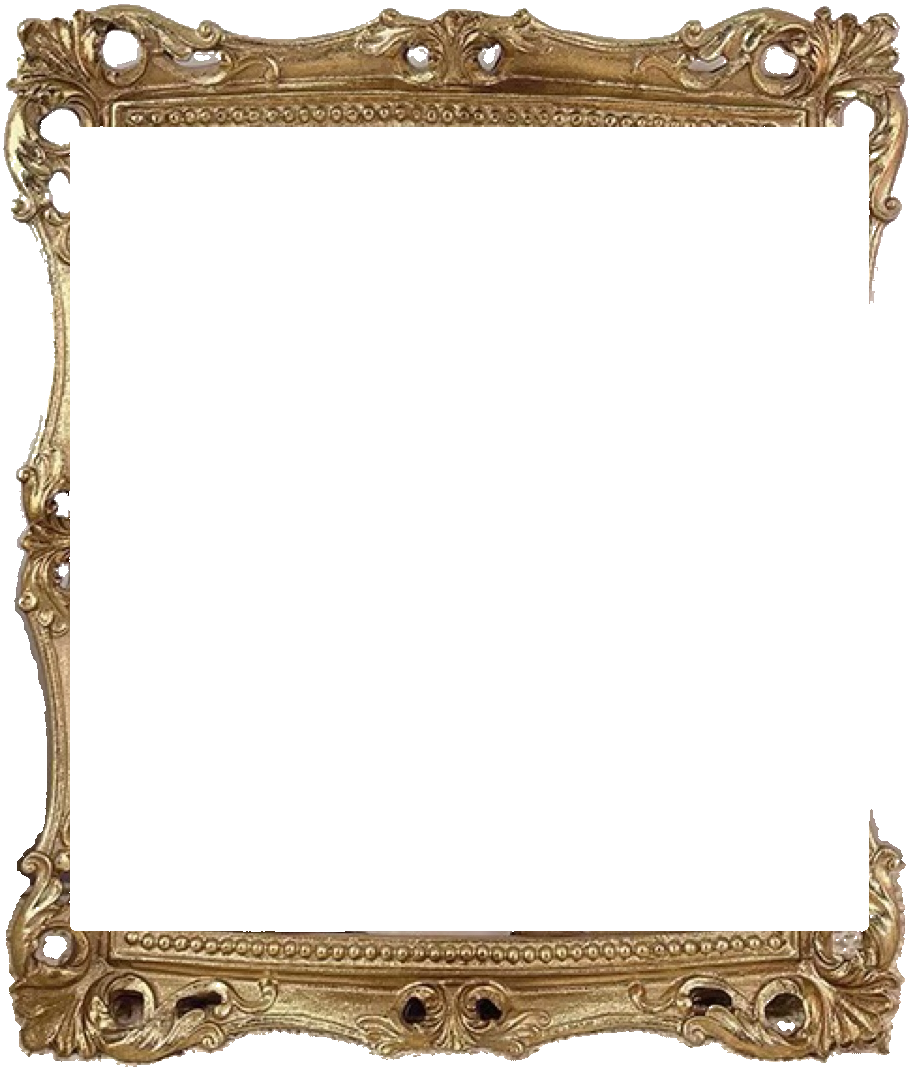
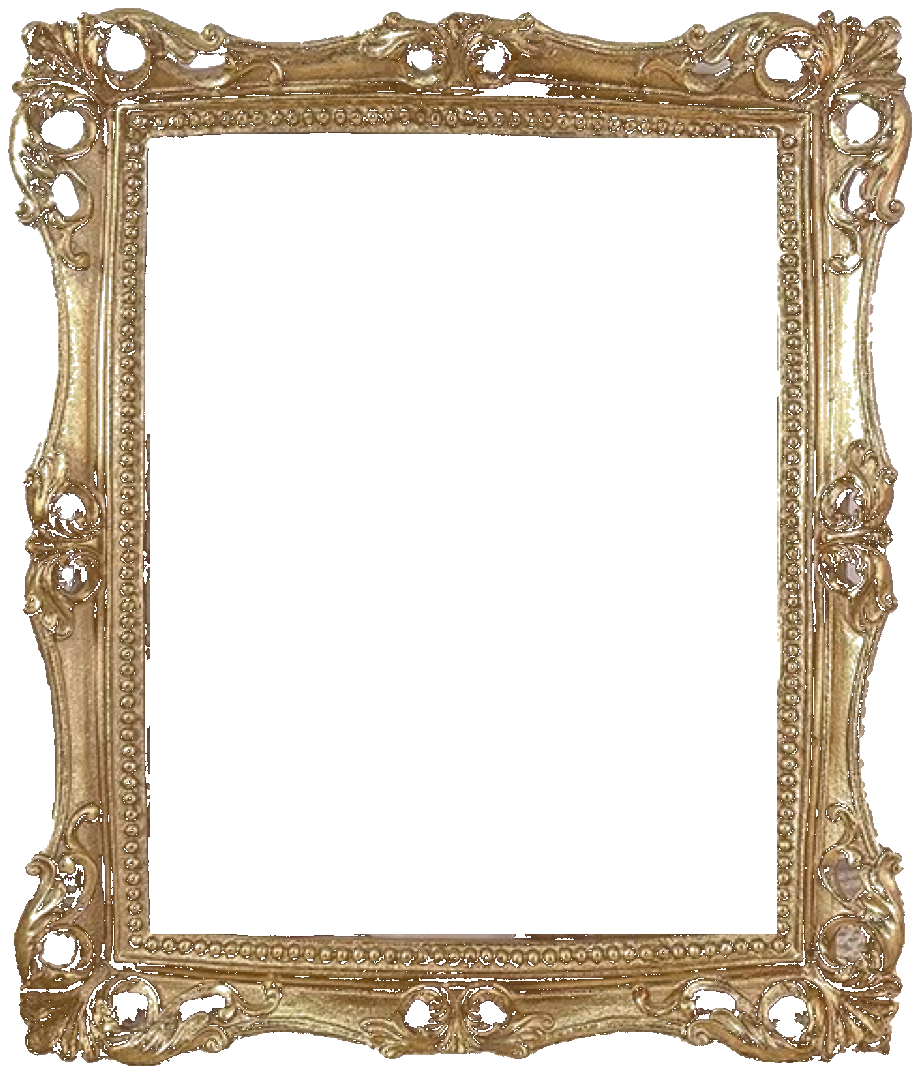
Deploy: art clipped inside openings; 10in frame recut
Paintings sit only in frame openings (circle/ellipse/rect). Fresh 10in
cut with uniform moulding and transparent piercings.

Changed region(s): [[0.0, 0.0, 1.0, 1.0]]

diff --git a/index.html b/index.html
@@ -1,6 +1,6 @@
 <!DOCTYPE html>
 <html><head><meta charset="utf-8"><meta name="viewport" content="width=device-width,initial-scale=1"><title data-i18n-title="k22a8cf57" data-suffix="">MinqianArt · Hand-painted acrylic portraits</title>
-<link rel="stylesheet" href="style.css"><link rel="stylesheet" href="v2.css"><link rel="stylesheet" href="v3.css"><link rel="stylesheet" href="mobile.css"><link rel="stylesheet" href="v2_mobile.css"><link rel="stylesheet" href="v3_mobile.css"><link rel="stylesheet" href="v4.css"><link rel="stylesheet" href="v4_mobile.css"><link rel="stylesheet" href="v5.css"><link rel="stylesheet" href="v5_mobile.css"><link rel="stylesheet" href="v6.css"><link rel="stylesheet" href="v7.css"><link rel="stylesheet" href="v8.css"><link rel="stylesheet" href="v9.css"><link rel="stylesheet" href="v12.css"><link rel="stylesheet" href="frames_real.css"><link rel="stylesheet" href="site.css"><link rel="stylesheet" href="frames_real.css"><script>try{var t=localStorage.getItem("ma-theme");if(t!=="light")document.documentElement.setAttribute("data-theme","dark");}catch(e){}</script><script src="i18n.js" defer></script><script src="site.js" defer></script><script src="frame_art.js"></script><script src="product_ui.js" defer></script></head><body class="parlour v2 cream v3 v4 v5 v6 v7 v8 v9 v12"><div class="mborder" aria-hidden="true"><img class="pc mb fw l" data-id="ml0" style="top:2.293%;left:-31px;width:106px;transform:rotate(5deg)" src="assets/v5/p_ch055.png" data-anc="11" data-dy="-1"><img class="pc mb fw l" data-id="ml1" style="top:4.008%;left:-54px;width:120px;transform:rotate(12deg)" src="assets/v5/p_ch023.png" data-anc="11" data-dy="103"><img class="pc mb bf l" data-id="ml2" style="top:12.890%;left:-17px;width:59px;transform:rotate(18deg)" src="assets/v5/b_bf12_8.png" data-anc="11" data-dy="639"><img class="pc mb fw l" data-id="ml3" style="top:19.191%;left:-36px;width:120px;transform:rotate(2deg)" src="assets/v5/p_ch015.png" data-anc="13" data-dy="210.2"><img class="pc mb fw l" data-id="ml4" style="top:26.196%;left:-36px;width:123px;transform:rotate(1deg)" src="assets/v7/dh_mh1099_tulip.png" data-anc="20" data-dy="24.7"><img class="pc mb bf l" data-id="ml5" style="top:32.334%;left:-18px;width:62px;transform:rotate(16deg)" src="assets/v5/b_bf03_10.png" data-anc="33" data-dy="83.2"><img class="pc mb fw l" data-id="ml6" style="top:38.238%;left:-32px;width:109px;transform:rotate(-6deg)" src="assets/v5/p_ch032.png" data-anc="43" data-dy="73.6"><img class="pc mb fw l" data-id="ml7" style="top:43.997%;left:-75px;width:119px;transform:rotate(-12deg)" src="assets/v5/p_ch020.png" data-anc="44" data-dy="47.5"><img class="pc mb bf l" data-id="ml8" style="top:50.840%;left:-17px;width:58px;transform:rotate(-6deg)" src="assets/v5/b_bf07_4.png" data-anc="44" data-dy="460.5"><img class="pc mb fw l" data-id="ml9" style="top:56.274%;left:-51px;width:106px;transform:rotate(10deg)" src="assets/v5/p_ch025.png" data-anc="44" data-dy="788.5"><img class="pc mb fw l" data-id="ml10" style="top:61.943%;left:-30px;width:101px;transform:rotate(-11deg)" src="assets/v5/p_ch071.png" data-anc="44" data-dy="1131.5"><img class="pc mb bf l" data-id="ml11" style="top:67.214%;left:-19px;width:64px;transform:rotate(-6deg)" src="assets/v5/b_bf13_7.png" data-anc="44" data-dy="1449.5"><img class="pc mb fw l" data-id="ml12" style="top:73.533%;left:-51px;width:105px;transform:rotate(-9deg)" src="assets/v5/p_ro03.png" data-anc="44" data-dy="1830.5"><img class="pc mb fw l" data-id="ml13" style="top:79.437%;left:-34px;width:115px;transform:rotate(14deg)" src="assets/v7/dh_mh1099_rose2.png" data-anc="44" data-dy="2187.5"><img class="pc mb bf l" data-id="ml14" style="top:85.611%;left:-37px;width:59px;transform:rotate(13deg)" src="assets/v5/b_bf10_21.png" data-anc="96" data-dy="65.9"><img class="pc mb fw l" data-id="ml15" style="top:93.681%;left:-65px;width:101px;transform:rotate(13deg)" src="assets/v5/p_ch061.png" data-anc="99" data-dy="40.9"><img class="pc mb fw l" data-id="ml16" style="top:99.007%;left:-55px;width:123px;transform:rotate(13deg)" src="assets/v5/p_ch004.png" data-anc="100" data-dy="47.4"><img class="pc mb bf r" data-id="mr17" style="top:4.532%;right:-19px;width:66px;transform:rotate(13deg)" src="assets/v5/b_bf10_221.png" data-anc="11" data-dy="135"><img class="pc mb fw r" data-id="mr18" style="top:13.251%;right:-71px;width:115px;transform:rotate(-18deg)" src="assets/v5/p_ro15.png" data-anc="11" data-dy="661"><img class="pc mb fw r" data-id="mr19" style="top:16.736%;right:-35px;width:118px;transform:rotate(-7deg)" src="assets/v5/p_ch039.png" data-anc="13" data-dy="61.2"><img class="pc mb bf r" data-id="mr20" style="top:21.249%;right:-25px;width:56px;transform:rotate(-15deg)" src="assets/v5/b_bf08_0.png" data-anc="13" data-dy="334.2"><img class="pc mb fw r" data-id="mr21" style="top:30.529%;right:-31px;width:106px;transform:rotate(1deg)" src="assets/v5/p_ch008.png" data-anc="32" data-dy="48.2"><img class="pc mb fw r" data-id="mr22" style="top:36.469%;right:-35px;width:117px;transform:rotate(14deg)" src="assets/v7/dh_mh1099_wlily2.png" data-anc="34" data-dy="57.6"><img class="pc mb bf r" data-id="mr23" style="top:42.481%;right:-18px;width:62px;transform:rotate(15deg)" src="assets/v5/b_bf12_82.png" data-anc="43" data-dy="330.6"><img class="pc mb fw r" data-id="mr24" style="top:48.204%;right:-35px;width:119px;transform:rotate(11deg)" src="assets/v5/p_ch046.png" data-anc="44" data-dy="301.5"><img class="pc mb fw r" data-id="mr25" style="top:53.674%;right:-33px;width:111px;transform:rotate(4deg)" src="assets/v5/p_ch042.png" data-anc="44" data-dy="631.5"><img class="pc mb bf r" data-id="mr26" style="top:60.643%;right:-17px;width:58px;transform:rotate(-8deg)" src="assets/v5/b_bf05_33.png" data-anc="44" data-dy="1052.5"><img class="pc mb fw r" data-id="mr27" style="top:65.499%;right:-36px;width:121px;transform:rotate(9deg)" src="assets/v5/p_ch003.png" data-anc="44" data-dy="1345.5"><img class="pc mb fw r" data-id="mr28" style="top:71.457%;right:-32px;width:107px;transform:rotate(1deg)" src="assets/v5/p_ch018.png" data-anc="44" data-dy="1705.5"><img class="pc mb bf r" data-id="mr29" style="top:77.054%;right:-19px;width:65px;transform:rotate(-3deg)" src="assets/v5/b_bf05_0.png" data-anc="44" data-dy="2043.5"><img class="pc mb fw r" data-id="mr30" style="top:84.095%;right:-32px;width:108px;transform:rotate(-16deg)" src="assets/v7/dh_mh1099_wlily.png" data-anc="90" data-dy="124.9"><img class="pc mb fw r" data-id="mr31" style="top:89.655%;right:-35px;width:119px;transform:rotate(-1deg)" src="assets/v5/p_ch069.png" data-anc="98" data-dy="49.9"><img class="pc mb bf r" data-id="mr32" style="top:94.963%;right:-17px;width:57px;transform:rotate(5deg)" src="assets/v5/b_bf00_105.png" data-anc="99" data-dy="117.9"></div><div class="fborder" aria-hidden="true"><img class="v4r fw r" style="top:265px;right:-103px;width:265px;transform:rotate(-9deg) scaleX(-1)" src="assets/v5/p_ro12.png" data-anc="3" data-dy="124.5"><img class="v4r fw r" style="top:760px;right:-165px;width:319px;transform:rotate(16deg) scaleX(-1)" src="assets/v4keep/fl_peony.png" data-anc="3" data-dy="619.5"><img class="pc fw l" data-id="l0" style="top:2.437%;left:-51px;width:222px;transform:rotate(-19deg)" src="assets/v5/p_ro15.png" data-anc="3" data-dy="46.5"><img class="pc fw l" data-id="l1" style="top:8.249%;left:-73px;width:192px;transform:rotate(-19deg)" src="assets/v7/dh_mh49_carnB.png" data-anc="3" data-dy="493.5"><img class="pc bf l" data-id="l2" style="top:13.393%;left:-24px;width:134px;transform:rotate(18deg)" src="assets/v5/b_bf03_10.png" data-anc="3" data-dy="888.5"><img class="pc fw l" data-id="l3" style="top:18.794%;left:-44px;width:201px;transform:rotate(-3deg)" src="assets/v7/dh_mh1099_tulip.png" data-anc="32" data-dy="69"><img class="pc fw l" data-id="l4" style="top:24.529%;left:-78px;width:212px;transform:rotate(20deg)" src="assets/v5/p_ch039.png" data-anc="33" data-dy="417"><img class="pc bf l" data-id="l5" style="top:29.480%;left:-24px;width:133px;transform:rotate(1deg)" src="assets/v5/b_bf09_6.png" data-anc="34" data-dy="37"><img class="pc fw l" data-id="l6" style="top:35.523%;left:-70px;width:244px;transform:rotate(-5deg)" src="assets/v7/dh_mh1099_wlily2.png" data-anc="43" data-dy="362"><img class="pc fw l" data-id="l7" style="top:39.577%;left:-75px;width:249px;transform:rotate(3deg)" src="assets/v5/p_ro09.png" data-anc="44" data-dy="201.3"><img class="pc bf l" data-id="l8" style="top:45.221%;left:-1px;width:124px;transform:rotate(18deg)" src="assets/v5/b_bf10_221.png" data-anc="44" data-dy="635.3"><img class="pc fw l" data-id="l9" style="top:50.468%;left:-61px;width:239px;transform:rotate(-9deg)" src="assets/v7/dh_nga_peony.png" data-anc="55" data-dy="1.5"><img class="pc fw l" data-id="l10" style="top:54.933%;left:-55px;width:192px;transform:rotate(19deg)" src="assets/v5/p_ch023.png" data-anc="57" data-dy="141.5"><img class="pc bf l" data-id="l11" style="top:60.000%;left:-14px;width:144px;transform:rotate(-11deg)" src="assets/v5/b_bf11_11.png" data-anc="67" data-dy="4.5"><img class="pc fw l" data-id="l12" style="top:65.208%;left:-57px;width:240px;transform:rotate(20deg)" src="assets/v7/dh_mh1099_redfl.png" data-anc="70" data-dy="198"><img class="pc fw l" data-id="l13" style="top:71.572%;left:-70px;width:222px;transform:rotate(11deg)" src="assets/v5/p_ro17.png" data-anc="70" data-dy="687"><img class="pc bf l" data-id="l14" style="top:76.395%;left:-2px;width:138px;transform:rotate(-10deg)" src="assets/v5/b_bf05_5.png" data-anc="76" data-dy="218"><img class="pc fw l" data-id="l15" style="top:82.476%;left:-57px;width:192px;transform:rotate(1deg)" src="assets/v7/dh_mh1099_wlily.png" data-anc="76" data-dy="685"><img class="pc fw l" data-id="l16" style="top:87.672%;left:-68px;width:234px;transform:rotate(-7deg)" src="assets/v5/p_ch018.png" data-anc="88" data-dy="85.5"><img class="pc bf l" data-id="l17" style="top:93.060%;left:-9px;width:111px;transform:rotate(-20deg)" src="assets/v5/b_bf07_4.png" data-anc="90" data-dy="2.5"><img class="pc fw r" data-id="r18" style="top:14.766%;right:-57px;width:246px;transform:rotate(6deg)" src="assets/v7/dh_mh1099_rose1.png" data-anc="20" data-dy="94.5"><img class="pc fw r" data-id="r19" style="top:20.103%;right:-88px;width:220px;transform:rotate(15deg)" src="assets/v5/p_ch003.png" data-anc="33" data-dy="77"><img class="pc bf r" data-id="r20" style="top:25.696%;right:-6px;width:126px;transform:rotate(-18deg)" src="assets/v5/b_bf05_33.png" data-anc="33" data-dy="507"><img class="pc fw r" data-id="r21" style="top:31.392%;right:-65px;width:247px;transform:rotate(-8deg)" src="assets/v7/gr_khm3043_lilies.png" data-anc="43" data-dy="44"><img class="pc fw r" data-id="r22" style="top:36.511%;right:-80px;width:213px;transform:rotate(4deg)" src="assets/v5/p_ch046.png" data-anc="43" data-dy="438"><img class="pc bf r" data-id="r23" style="top:41.360%;right:-2px;width:119px;transform:rotate(-19deg)" src="assets/v5/b_bf06_80.png" data-anc="44" data-dy="338.3"><img class="pc fw r" data-id="r24" style="top:46.774%;right:-66px;width:248px;transform:rotate(14deg)" src="assets/v7/dh_mh1099_bud.png" data-anc="44" data-dy="754.3"><img class="pc fw r" data-id="r25" style="top:52.842%;right:-46px;width:240px;transform:rotate(2deg)" src="assets/v5/p_ch004.png" data-anc="56" data-dy="89.5"><img class="pc bf r" data-id="r26" style="top:58.294%;right:-15px;width:144px;transform:rotate(19deg)" src="assets/v5/b_bf00_105.png" data-anc="58" data-dy="13.5"><img class="pc fw r" data-id="r27" style="top:62.848%;right:-65px;width:228px;transform:rotate(17deg)" src="assets/v5/p_ch042.png" data-anc="70" data-dy="17"><img class="pc fw r" data-id="r28" style="top:67.979%;right:-90px;width:210px;transform:rotate(1deg)" src="assets/v5/p_ch061.png" data-anc="70" data-dy="411"><img class="pc bf r" data-id="r29" style="top:73.342%;right:-21px;width:129px;transform:rotate(-9deg)" src="assets/v5/b_bf02_7.png" data-anc="71" data-dy="123"><img class="pc fw r" data-id="r30" style="top:78.384%;right:-67px;width:249px;transform:rotate(3deg)" src="assets/v5/p_ch026.png" data-anc="76" data-dy="370"><img class="pc fw r" data-id="r31" style="top:83.310%;right:-68px;width:229px;transform:rotate(11deg)" src="assets/v5/p_ro03.png" data-anc="77" data-dy="19"><img class="pc bf r" data-id="r32" style="top:89.686%;right:-16px;width:131px;transform:rotate(-5deg)" src="assets/v5/b_bf03_45.png" data-anc="89" data-dy="138.5"></div>
+<link rel="stylesheet" href="style.css"><link rel="stylesheet" href="v2.css"><link rel="stylesheet" href="v3.css"><link rel="stylesheet" href="mobile.css"><link rel="stylesheet" href="v2_mobile.css"><link rel="stylesheet" href="v3_mobile.css"><link rel="stylesheet" href="v4.css"><link rel="stylesheet" href="v4_mobile.css"><link rel="stylesheet" href="v5.css"><link rel="stylesheet" href="v5_mobile.css"><link rel="stylesheet" href="v6.css"><link rel="stylesheet" href="v7.css"><link rel="stylesheet" href="v8.css"><link rel="stylesheet" href="v9.css"><link rel="stylesheet" href="v12.css"><link rel="stylesheet" href="frames_real.css"><link rel="stylesheet" href="site.css"><link rel="stylesheet" href="frames_real.css"><script>try{var t=localStorage.getItem("ma-theme");if(t!=="light")document.documentElement.setAttribute("data-theme","dark");}catch(e){}</script><script src="i18n.js" defer></script><script src="site.js" defer></script><script src="frame_art.js"></script><script src="product_ui.js" defer></script></head><body class="parlour v2 cream v3 v4 v5 v6 v7 v8 v9 v12"><div class="mborder" aria-hidden="true"><img class="pc mb fw l" data-id="ml0" style="top:2.293%;left:-31px;width:106px;transform:rotate(5deg)" src="assets/v5/p_ch055.png" data-anc="11" data-dy="-1"><img class="pc mb fw l" data-id="ml1" style="top:4.008%;left:-54px;width:120px;transform:rotate(12deg)" src="assets/v5/p_ch023.png" data-anc="11" data-dy="102"><img class="pc mb bf l" data-id="ml2" style="top:12.890%;left:-17px;width:59px;transform:rotate(18deg)" src="assets/v5/b_bf12_8.png" data-anc="11" data-dy="636"><img class="pc mb fw l" data-id="ml3" style="top:19.191%;left:-36px;width:120px;transform:rotate(2deg)" src="assets/v5/p_ch015.png" data-anc="13" data-dy="205.2"><img class="pc mb fw l" data-id="ml4" style="top:26.196%;left:-36px;width:123px;transform:rotate(1deg)" src="assets/v7/dh_mh1099_tulip.png" data-anc="20" data-dy="18.7"><img class="pc mb bf l" data-id="ml5" style="top:32.334%;left:-18px;width:62px;transform:rotate(16deg)" src="assets/v5/b_bf03_10.png" data-anc="33" data-dy="75.2"><img class="pc mb fw l" data-id="ml6" style="top:38.238%;left:-32px;width:109px;transform:rotate(-6deg)" src="assets/v5/p_ch032.png" data-anc="43" data-dy="64.6"><img class="pc mb fw l" data-id="ml7" style="top:43.997%;left:-75px;width:119px;transform:rotate(-12deg)" src="assets/v5/p_ch020.png" data-anc="44" data-dy="61.5"><img class="pc mb bf l" data-id="ml8" style="top:50.840%;left:-17px;width:58px;transform:rotate(-6deg)" src="assets/v5/b_bf07_4.png" data-anc="44" data-dy="472.5"><img class="pc mb fw l" data-id="ml9" style="top:56.274%;left:-51px;width:106px;transform:rotate(10deg)" src="assets/v5/p_ch025.png" data-anc="44" data-dy="799.5"><img class="pc mb fw l" data-id="ml10" style="top:61.943%;left:-30px;width:101px;transform:rotate(-11deg)" src="assets/v5/p_ch071.png" data-anc="44" data-dy="1140.5"><img class="pc mb bf l" data-id="ml11" style="top:67.214%;left:-19px;width:64px;transform:rotate(-6deg)" src="assets/v5/b_bf13_7.png" data-anc="44" data-dy="1457.5"><img class="pc mb fw l" data-id="ml12" style="top:73.533%;left:-51px;width:105px;transform:rotate(-9deg)" src="assets/v5/p_ro03.png" data-anc="44" data-dy="1837.5"><img class="pc mb fw l" data-id="ml13" style="top:79.437%;left:-34px;width:115px;transform:rotate(14deg)" src="assets/v7/dh_mh1099_rose2.png" data-anc="44" data-dy="2192.5"><img class="pc mb bf l" data-id="ml14" style="top:85.611%;left:-37px;width:59px;transform:rotate(13deg)" src="assets/v5/b_bf10_21.png" data-anc="96" data-dy="69.9"><img class="pc mb fw l" data-id="ml15" style="top:93.681%;left:-65px;width:101px;transform:rotate(13deg)" src="assets/v5/p_ch061.png" data-anc="99" data-dy="41.9"><img class="pc mb fw l" data-id="ml16" style="top:99.007%;left:-55px;width:123px;transform:rotate(13deg)" src="assets/v5/p_ch004.png" data-anc="100" data-dy="47.4"><img class="pc mb bf r" data-id="mr17" style="top:4.532%;right:-19px;width:66px;transform:rotate(13deg)" src="assets/v5/b_bf10_221.png" data-anc="11" data-dy="134"><img class="pc mb fw r" data-id="mr18" style="top:13.251%;right:-71px;width:115px;transform:rotate(-18deg)" src="assets/v5/p_ro15.png" data-anc="11" data-dy="658"><img class="pc mb fw r" data-id="mr19" style="top:16.736%;right:-35px;width:118px;transform:rotate(-7deg)" src="assets/v5/p_ch039.png" data-anc="13" data-dy="57.2"><img class="pc mb bf r" data-id="mr20" style="top:21.249%;right:-25px;width:56px;transform:rotate(-15deg)" src="assets/v5/b_bf08_0.png" data-anc="13" data-dy="329.2"><img class="pc mb fw r" data-id="mr21" style="top:30.529%;right:-31px;width:106px;transform:rotate(1deg)" src="assets/v5/p_ch008.png" data-anc="32" data-dy="41.2"><img class="pc mb fw r" data-id="mr22" style="top:36.469%;right:-35px;width:117px;transform:rotate(14deg)" src="assets/v7/dh_mh1099_wlily2.png" data-anc="34" data-dy="48.6"><img class="pc mb bf r" data-id="mr23" style="top:42.481%;right:-18px;width:62px;transform:rotate(15deg)" src="assets/v5/b_bf12_82.png" data-anc="43" data-dy="319.6"><img class="pc mb fw r" data-id="mr24" style="top:48.204%;right:-35px;width:119px;transform:rotate(11deg)" src="assets/v5/p_ch046.png" data-anc="44" data-dy="314.5"><img class="pc mb fw r" data-id="mr25" style="top:53.674%;right:-33px;width:111px;transform:rotate(4deg)" src="assets/v5/p_ch042.png" data-anc="44" data-dy="642.5"><img class="pc mb bf r" data-id="mr26" style="top:60.643%;right:-17px;width:58px;transform:rotate(-8deg)" src="assets/v5/b_bf05_33.png" data-anc="44" data-dy="1062.5"><img class="pc mb fw r" data-id="mr27" style="top:65.499%;right:-36px;width:121px;transform:rotate(9deg)" src="assets/v5/p_ch003.png" data-anc="44" data-dy="1354.5"><img class="pc mb fw r" data-id="mr28" style="top:71.457%;right:-32px;width:107px;transform:rotate(1deg)" src="assets/v5/p_ch018.png" data-anc="44" data-dy="1712.5"><img class="pc mb bf r" data-id="mr29" style="top:77.054%;right:-19px;width:65px;transform:rotate(-3deg)" src="assets/v5/b_bf05_0.png" data-anc="44" data-dy="2048.5"><img class="pc mb fw r" data-id="mr30" style="top:84.095%;right:-32px;width:108px;transform:rotate(-16deg)" src="assets/v7/dh_mh1099_wlily.png" data-anc="90" data-dy="128.9"><img class="pc mb fw r" data-id="mr31" style="top:89.655%;right:-35px;width:119px;transform:rotate(-1deg)" src="assets/v5/p_ch069.png" data-anc="98" data-dy="51.9"><img class="pc mb bf r" data-id="mr32" style="top:94.963%;right:-17px;width:57px;transform:rotate(5deg)" src="assets/v5/b_bf00_105.png" data-anc="99" data-dy="118.9"></div><div class="fborder" aria-hidden="true"><img class="v4r fw r" style="top:265px;right:-103px;width:265px;transform:rotate(-9deg) scaleX(-1)" src="assets/v5/p_ro12.png" data-anc="3" data-dy="124.5"><img class="v4r fw r" style="top:760px;right:-165px;width:319px;transform:rotate(16deg) scaleX(-1)" src="assets/v4keep/fl_peony.png" data-anc="3" data-dy="619.5"><img class="pc fw l" data-id="l0" style="top:2.437%;left:-51px;width:222px;transform:rotate(-19deg)" src="assets/v5/p_ro15.png" data-anc="3" data-dy="45.5"><img class="pc fw l" data-id="l1" style="top:8.249%;left:-73px;width:192px;transform:rotate(-19deg)" src="assets/v7/dh_mh49_carnB.png" data-anc="3" data-dy="490.5"><img class="pc bf l" data-id="l2" style="top:13.393%;left:-24px;width:134px;transform:rotate(18deg)" src="assets/v5/b_bf03_10.png" data-anc="3" data-dy="883.5"><img class="pc fw l" data-id="l3" style="top:18.794%;left:-44px;width:201px;transform:rotate(-3deg)" src="assets/v7/dh_mh1099_tulip.png" data-anc="32" data-dy="62"><img class="pc fw l" data-id="l4" style="top:24.529%;left:-78px;width:212px;transform:rotate(20deg)" src="assets/v5/p_ch039.png" data-anc="33" data-dy="408"><img class="pc bf l" data-id="l5" style="top:29.480%;left:-24px;width:133px;transform:rotate(1deg)" src="assets/v5/b_bf09_6.png" data-anc="34" data-dy="27"><img class="pc fw l" data-id="l6" style="top:35.523%;left:-70px;width:244px;transform:rotate(-5deg)" src="assets/v7/dh_mh1099_wlily2.png" data-anc="43" data-dy="349"><img class="pc fw l" data-id="l7" style="top:39.577%;left:-75px;width:249px;transform:rotate(3deg)" src="assets/v5/p_ro09.png" data-anc="44" data-dy="223.3"><img class="pc bf l" data-id="l8" style="top:45.221%;left:-1px;width:124px;transform:rotate(18deg)" src="assets/v5/b_bf10_221.png" data-anc="44" data-dy="655.3"><img class="pc fw l" data-id="l9" style="top:50.468%;left:-61px;width:239px;transform:rotate(-9deg)" src="assets/v7/dh_nga_peony.png" data-anc="55" data-dy="19.5"><img class="pc fw l" data-id="l10" style="top:54.933%;left:-55px;width:192px;transform:rotate(19deg)" src="assets/v5/p_ch023.png" data-anc="57" data-dy="158.5"><img class="pc bf l" data-id="l11" style="top:60.000%;left:-14px;width:144px;transform:rotate(-11deg)" src="assets/v5/b_bf11_11.png" data-anc="67" data-dy="18.5"><img class="pc fw l" data-id="l12" style="top:65.208%;left:-57px;width:240px;transform:rotate(20deg)" src="assets/v7/dh_mh1099_redfl.png" data-anc="70" data-dy="210"><img class="pc fw l" data-id="l13" style="top:71.572%;left:-70px;width:222px;transform:rotate(11deg)" src="assets/v5/p_ro17.png" data-anc="70" data-dy="697"><img class="pc bf l" data-id="l14" style="top:76.395%;left:-2px;width:138px;transform:rotate(-10deg)" src="assets/v5/b_bf05_5.png" data-anc="76" data-dy="226"><img class="pc fw l" data-id="l15" style="top:82.476%;left:-57px;width:192px;transform:rotate(1deg)" src="assets/v7/dh_mh1099_wlily.png" data-anc="76" data-dy="691"><img class="pc fw l" data-id="l16" style="top:87.672%;left:-68px;width:234px;transform:rotate(-7deg)" src="assets/v5/p_ch018.png" data-anc="88" data-dy="90.5"><img class="pc bf l" data-id="l17" style="top:93.060%;left:-9px;width:111px;transform:rotate(-20deg)" src="assets/v5/b_bf07_4.png" data-anc="90" data-dy="5.5"><img class="pc fw r" data-id="r18" style="top:14.766%;right:-57px;width:246px;transform:rotate(6deg)" src="assets/v7/dh_mh1099_rose1.png" data-anc="20" data-dy="88.5"><img class="pc fw r" data-id="r19" style="top:20.103%;right:-88px;width:220px;transform:rotate(15deg)" src="assets/v5/p_ch003.png" data-anc="33" data-dy="70"><img class="pc bf r" data-id="r20" style="top:25.696%;right:-6px;width:126px;transform:rotate(-18deg)" src="assets/v5/b_bf05_33.png" data-anc="33" data-dy="497"><img class="pc fw r" data-id="r21" style="top:31.392%;right:-65px;width:247px;transform:rotate(-8deg)" src="assets/v7/gr_khm3043_lilies.png" data-anc="43" data-dy="33"><img class="pc fw r" data-id="r22" style="top:36.511%;right:-80px;width:213px;transform:rotate(4deg)" src="assets/v5/p_ch046.png" data-anc="43" data-dy="425"><img class="pc bf r" data-id="r23" style="top:41.360%;right:-2px;width:119px;transform:rotate(-19deg)" src="assets/v5/b_bf06_80.png" data-anc="44" data-dy="359.3"><img class="pc fw r" data-id="r24" style="top:46.774%;right:-66px;width:248px;transform:rotate(14deg)" src="assets/v7/dh_mh1099_bud.png" data-anc="44" data-dy="773.3"><img class="pc fw r" data-id="r25" style="top:52.842%;right:-46px;width:240px;transform:rotate(2deg)" src="assets/v5/p_ch004.png" data-anc="56" data-dy="106.5"><img class="pc bf r" data-id="r26" style="top:58.294%;right:-15px;width:144px;transform:rotate(19deg)" src="assets/v5/b_bf00_105.png" data-anc="58" data-dy="28.5"><img class="pc fw r" data-id="r27" style="top:62.848%;right:-65px;width:228px;transform:rotate(17deg)" src="assets/v5/p_ch042.png" data-anc="70" data-dy="30"><img class="pc fw r" data-id="r28" style="top:67.979%;right:-90px;width:210px;transform:rotate(1deg)" src="assets/v5/p_ch061.png" data-anc="70" data-dy="422"><img class="pc bf r" data-id="r29" style="top:73.342%;right:-21px;width:129px;transform:rotate(-9deg)" src="assets/v5/b_bf02_7.png" data-anc="71" data-dy="133"><img class="pc fw r" data-id="r30" style="top:78.384%;right:-67px;width:249px;transform:rotate(3deg)" src="assets/v5/p_ch026.png" data-anc="76" data-dy="378"><img class="pc fw r" data-id="r31" style="top:83.310%;right:-68px;width:229px;transform:rotate(11deg)" src="assets/v5/p_ro03.png" data-anc="77" data-dy="25"><img class="pc bf r" data-id="r32" style="top:89.686%;right:-16px;width:131px;transform:rotate(-5deg)" src="assets/v5/b_bf03_45.png" data-anc="89" data-dy="142.5"></div>
 <div class="topbar"><div class="site-ctl ctl-top"><select class="lang-sel" aria-label="Language" data-i18n-aria="k4994a8ff"><option value="en">English</option><option value="zh-Hans">简体中文</option><option value="zh-Hant">繁體中文</option><option value="es">Español</option><option value="fr">Français</option><option value="de">Deutsch</option><option value="ja">日本語</option><option value="ko">한국어</option></select><button class="theme-btn" type="button" aria-label="Dark mode" data-i18n-aria="k3924c958" data-i18n-aria-light="k6c3e844b"><svg viewBox="0 0 24 24" class="ic-moon" aria-hidden="true"><path d="M20 14.5A8 8 0 0 1 9.5 4a8 8 0 1 0 10.5 10.5z" fill="currentColor"/></svg><svg viewBox="0 0 24 24" class="ic-sun" aria-hidden="true"><circle cx="12" cy="12" r="4.2" fill="currentColor"/><g stroke="currentColor" stroke-width="1.8" stroke-linecap="round"><path d="M12 2.5v2.6M12 18.9v2.6M2.5 12h2.6M18.9 12h2.6M5.3 5.3l1.8 1.8M16.9 16.9l1.8 1.8M5.3 18.7l1.8-1.8M16.9 7.1l1.8-1.8"/></g></svg></button></div><span data-i18n="ka614c625">Free US shipping on every portrait &nbsp;·&nbsp; <b>Hand-painted in acrylic</b> &nbsp;·&nbsp; Christmas orders by November 30</span></div>
 <header class="site"><nav><a href="#collections" data-i18n="ka9fc9193">Collections</a><a href="#gallery" data-i18n="k5c93310d">Gallery</a><a href="#how" data-i18n="k9ffdb952">How it works</a></nav>
 <div class="brand"><img src="assets/brand/emblem_wreath_gold.png"><span class="wordmark gold">MinqianArt</span></div>

diff --git a/frames_real.css b/frames_real.css
@@ -1,10 +1,51 @@
-/* Real supplier frame cut-outs (user product photos). Painting sits under .frame via .art / .art-ph. */
-.fr.real{--l:18%;--r:18%;--t:18%;--b:18%}
-.fr.real .frame{position:relative;width:100%;height:auto;filter:drop-shadow(0 10px 14px rgba(0,0,0,.55));z-index:2;pointer-events:none}
+/* Real supplier frame cut-outs. Painting sits under .frame via .art / .art-ph.
+   Opening insets from openings.json as % of the frame image box. */
+.fr.real{
+  position:relative;display:inline-block;
+  padding:0!important;background:none!important;border:none!important;
+  box-shadow:none!important;border-radius:0!important;
+  --l:18%;--r:18%;--t:18%;--b:18%;
+}
+.fr.real:before{content:none!important;display:none!important}
+.fr.real .frame{
+  position:relative;display:block;width:100%;height:auto;
+  z-index:2;pointer-events:none;
+  border:none!important;box-shadow:none!important;border-radius:0!important;
+  aspect-ratio:auto!important;object-fit:contain;
+  filter:drop-shadow(0 10px 14px rgba(0,0,0,.55));
+}
+/* Art fills the measured opening; slightly oversize via negative margin so lip covers edge */
 .fr.real .art,.fr.real .art-ph{
-  position:absolute;z-index:1;object-fit:cover;
+  position:absolute;z-index:1;
   left:var(--l);right:var(--r);top:var(--t);bottom:var(--b);
-  width:calc(100% - var(--l) - var(--r));height:calc(100% - var(--t) - var(--b));
+  width:auto!important;height:auto!important;
+  max-width:none!important;max-height:none!important;
+  margin:0;padding:0;
+  object-fit:cover;object-position:center center;
+  border:none!important;box-shadow:none!important;
+  aspect-ratio:auto!important;
+  /* inset already sizes via top/right/bottom/left; force fill of that box: */
+  inset:var(--t) var(--r) var(--b) var(--l);
+}
+/* Explicit width/height from inset box — avoid intrinsic JPG size leak */
+.fr.real>.art,.fr.real>.art-ph{
+  width:calc(100% - var(--l) - var(--r))!important;
+  height:calc(100% - var(--t) - var(--b))!important;
+  left:var(--l)!important;top:var(--t)!important;
+  right:auto!important;bottom:auto!important;
+}
+.fr.real.round>.art,.fr.real.round>.art-ph{
+  border-radius:50%!important;
+  overflow:hidden!important;
+  clip-path:circle(50% at 50% 50%);
+  -webkit-clip-path:circle(50% at 50% 50%);
+}
+.fr.real.oval>.art,.fr.real.oval>.art-ph{
+  border-radius:50%;
+  clip-path:ellipse(50% 50% at 50% 50%);
+}
+.fr.real.rect>.art,.fr.real.rect>.art-ph{
+  border-radius:1%;
 }
 .fr.real .art-ph{
   background:
@@ -13,47 +54,36 @@
     #e6d7be;
   box-shadow:inset 0 0 24px rgba(80,50,20,.12);
 }
-.fr.real.oval .art,.fr.real.oval .art-ph,.fr.real.round .art,.fr.real.round .art-ph{border-radius:50%}
-.fr.real.rect .art,.fr.real.rect .art-ph{border-radius:1.5%}
-/* measured openings from cut PNG alphas */
-.fr.f-S{--l:24.0%;--r:23.7%;--t:20.2%;--b:19.9%}
-.fr.f-R{--l:21.1%;--r:21.4%;--t:19.0%;--b:19.4%}
-.fr.f-J{--l:15.6%;--r:15.6%;--t:15.1%;--b:15.6%}
-.fr.f-O{--l:14.0%;--r:14.4%;--t:14.6%;--b:15.0%}
-.fr.f-10{--l:15.0%;--r:15.1%;--t:15.0%;--b:15.1%}
+html[data-theme=dark] .fr.real .art-ph{
+  background:linear-gradient(160deg,rgba(90,70,50,.45),rgba(40,30,22,.55)),#3a2e24;
+  box-shadow:inset 0 0 24px rgba(0,0,0,.35);
+}
+/* measured openings */
+.fr.f-S{--l:21.5%;--r:21.2%;--t:17.7%;--b:17.4%}
+.fr.f-R{--l:18.6%;--r:18.9%;--t:16.5%;--b:16.9%}
+.fr.f-J{--l:14.9%;--r:11.3%;--t:12.6%;--b:13.1%}
+.fr.f-O{--l:11.5%;--r:11.9%;--t:12.1%;--b:12.5%}
+.fr.f-10{--l:13.8%;--r:13.2%;--t:10.3%;--b:10.6%}
+
+/* Kill leftover style.css .round chrome when real PNG is used */
+.fr.real.round,.fr.real.round.wood{
+  padding:0!important;background:none!important;border:none!important;
+  box-shadow:none!important;border-radius:0!important;
+}
+.fr.real.round:before,.fr.real.round.wood:before{content:none!important;display:none!important}
+.fr.real.round img{
+  border:none!important;box-shadow:none!important;
+}
+.fr.real.round>.frame{
+  border-radius:0!important;aspect-ratio:auto!important;width:100%;height:auto;
+  filter:drop-shadow(0 10px 14px rgba(0,0,0,.55));
+}
+.fr.real.oval,.fr.real.rect{padding:0;background:none;border:none}
+.fr.real.oval:before,.fr.real.rect:before{content:none;display:none}
+
 /* product option swatches */
 .frames .fopt{cursor:pointer;user-select:none}
 .frames .fopt img.sw{width:72px;height:72px;object-fit:contain;display:block;margin:0 auto 8px;filter:drop-shadow(0 4px 8px rgba(0,0,0,.35))}
 .frames .fopt[aria-pressed="true"],.frames .fopt.on{outline:2px solid var(--gold);outline-offset:3px;background:rgba(201,163,92,.12)}
 .subj span[role="button"],.subj span.on{cursor:pointer}
 .subj span[aria-pressed="true"],.subj .on{outline:2px solid var(--gold);outline-offset:2px}
-html[data-theme=dark] .fr.real .art-ph{
-  background:
-    linear-gradient(160deg,rgba(90,70,50,.45),rgba(40,30,22,.55)),
-    #3a2e24;
-  box-shadow:inset 0 0 24px rgba(0,0,0,.35);
-}
-
-/* Real round frames: kill leftover CSS gold ring from old .round design */
-.fr.real.round,.fr.real.round.wood{
-  padding:0!important;background:none!important;border:none!important;
-  box-shadow:none!important;border-radius:0!important;
-}
-.fr.real.round:before,.fr.real.round.wood:before{content:none!important;display:none!important}
-.fr.real.round>.frame,.fr.real.round img.frame{
-  border:none!important;box-shadow:none!important;filter:drop-shadow(0 10px 14px rgba(0,0,0,.55));
-  aspect-ratio:auto!important;border-radius:0!important;width:100%;height:auto;
-}
-.fr.real.round>.art,.fr.real.round>.art-ph{border-radius:50%}
-/* Ovals / 10in: ensure no doubled decorative chrome */
-.fr.real.oval,.fr.real.rect{padding:0;background:none;border:none}
-.fr.real.oval:before,.fr.real.rect:before{content:none;display:none}
-
-/* Also neutralize style.css ".round img" chrome when a real frame PNG is used */
-.fr.real.round img{border:none!important;box-shadow:none!important;border-radius:0!important;aspect-ratio:auto!important}
-.fr.real.round img.art,.fr.real.round>.art{
-  position:absolute!important;inset:var(--t) var(--r) var(--b) var(--l);
-  width:auto!important;height:auto!important;aspect-ratio:auto!important;
-  border-radius:50%;object-fit:cover;border:none!important;box-shadow:none!important;z-index:0;
-}
-.fr.real.round img.frame{position:relative;z-index:1;width:100%;height:auto}
